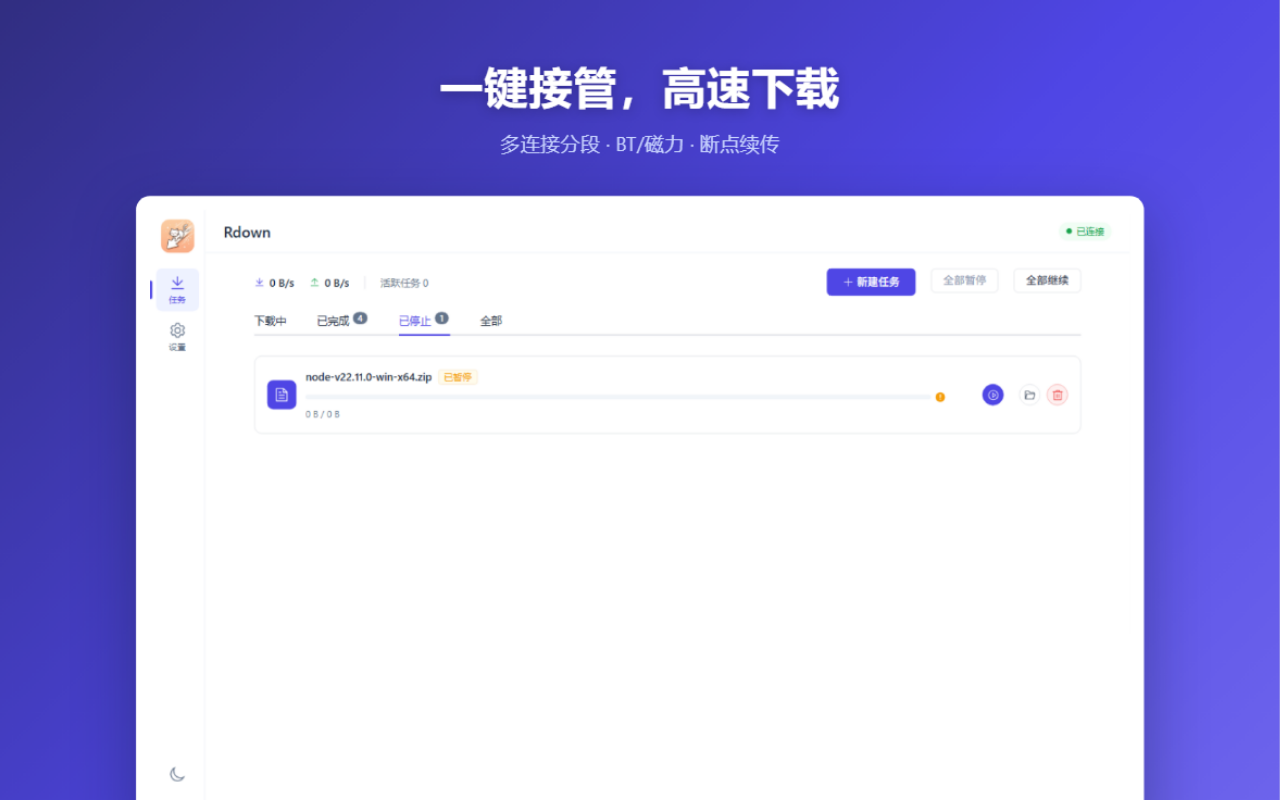
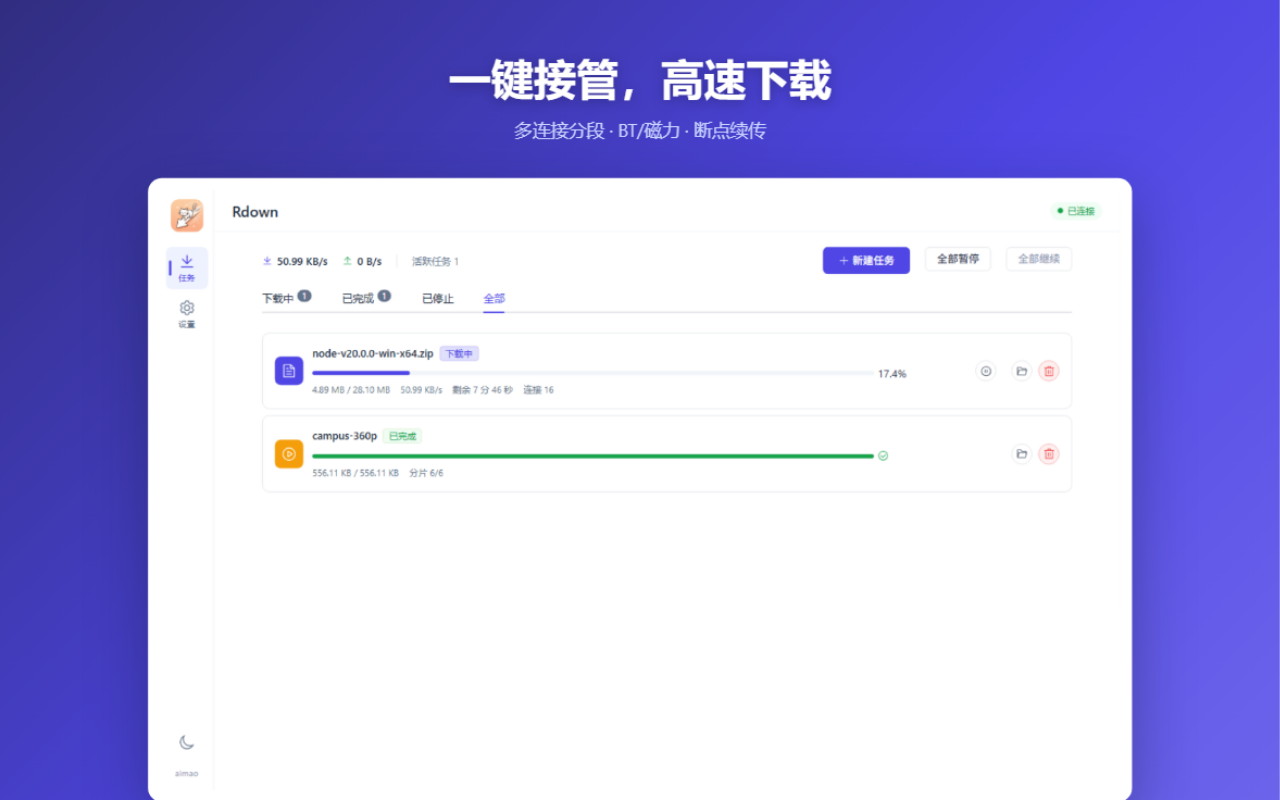
assets: refresh store screenshots for v0.0.1 UI (new shots + fixed dark-mode shot), rebuild extension-pack.zip v0.0.1, sync docs & listing captions

diff --git a/docs/store-assets/src-shots/compose-screenshot.html b/docs/store-assets/src-shots/compose-screenshot.html
@@ -1,0 +1,35 @@
+<!DOCTYPE html>
+<html>
+<head>
+<meta charset="UTF-8">
+<style>
+  * { margin: 0; padding: 0; box-sizing: border-box; }
+  body {
+    width: 1280px; height: 800px; overflow: hidden;
+    font-family: -apple-system, "Segoe UI", "PingFang SC", "Microsoft YaHei", sans-serif;
+    background: linear-gradient(135deg, #312e81 0%, #4f46e5 55%, #6d64ec 100%);
+    display: flex; flex-direction: column; align-items: center;
+  }
+  .headline { margin-top: 50px; color: #ffffff; font-size: 42px; font-weight: 700; letter-spacing: 0.5px; text-shadow: 0 2px 12px rgba(0,0,0,0.25); }
+  .subline { margin-top: 12px; color: #c7d2fe; font-size: 18px; }
+  .card { margin-top: 36px; background: #ffffff; border-radius: 14px; padding: 12px; box-shadow: 0 20px 60px rgba(15, 23, 42, 0.35); line-height: 0; }
+  .card img { width: 960px; display: block; border-radius: 8px; }
+  .footer { margin-top: auto; margin-bottom: 24px; display: flex; align-items: center; gap: 10px; color: #e0e7ff; font-size: 14px; }
+  .footer img { width: 24px; height: 24px; border-radius: 6px; }
+  .footer b { font-weight: 600; }
+  .footer span { opacity: 0.75; }
+</style>
+</head>
+<body>
+  <div class="headline" id="h1"></div>
+  <div class="subline" id="h2"></div>
+  <div class="card"><img id="shot" src="" alt=""></div>
+  <div class="footer"><img src="logo.png" alt=""><b>Rdown</b><span>· aimao.today</span></div>
+  <script>
+    const p = new URLSearchParams(location.search);
+    document.getElementById('h1').textContent = p.get('h1') || '';
+    document.getElementById('h2').textContent = p.get('h2') || '';
+    document.getElementById('shot').src = p.get('img');
+  </script>
+</body>
+</html>

diff --git a/docs/cws-readiness-report.md b/docs/cws-readiness-report.md
@@ -1,6 +1,6 @@
 # Rdown 扩展 — Chrome Web Store 全要素合规审查总报告
 
-审查日期：2026-10-23 · 范围：extension/ 全部源码 + _locales 9 语言 + 商店后台物料 + 代码安全红线
+审查日期：2026-10-24（复审，UI 视觉重构 + v0.0.1 版本定稿后重新制作素材） · 范围：extension/ 全部源码 + _locales 9 语言 + 商店后台物料 + 代码安全红线
 结论：**全部就绪，可提交**。
 
 ---
@@ -10,7 +10,7 @@
 | 项 | 结果 |
 |---|---|
 | 打包脚本 | `tools/pack-extension.mjs`（纯 Node 手写 ZIP，STORE 方法），`npm run pack:extension` |
-| 产物 | `extension-pack.zip`（27 个文件，894,665 B） |
+| 产物 | `extension-pack.zip`（27 个文件，895,708 B，version 0.0.1） |
 | ZIP 根目录 | `manifest.json` 为首个条目 ✓ |
 | 排除项 | gen-icons.js、store/、*.ts、*.map、node_modules、.git、.env 均未打入 ✓ |
 | JSON 校验 | manifest.json 与 9 个 messages.json 全部合法，无注释、无尾随逗号 ✓ |
@@ -45,10 +45,10 @@
 ### 商店后台素材（全部 24 位 RGB 无 Alpha，已实测）
 | 文件 | 尺寸 | 用途 |
 |---|---|---|
-| docs/store-assets/shot-01.png | 1280×800 (ct=2) | 截图 1：任务列表（亮色） |
-| docs/store-assets/shot-02.png | 1280×800 (ct=2) | 截图 2：新建任务·流媒体解析 |
-| docs/store-assets/shot-03.png | 1280×800 (ct=2) | 截图 3：扩展 popup |
-| docs/store-assets/shot-04.png | 1280×800 (ct=2) | 截图 4：设置页（暗色） |
+| docs/store-assets/shot-01.png | 1280×800 (ct=2) | 截图 1：任务列表（亮色）· "一键接管，高速下载" |
+| docs/store-assets/shot-02.png | 1280×800 (ct=2) | 截图 2：新建任务·流媒体解析 · "流媒体下载，一站搞定" |
+| docs/store-assets/shot-03.png | 1280×800 (ct=2) | 截图 3：设置页（亮色）· "精细到每一个细节" |
+| docs/store-assets/shot-04.png | 1280×800 (ct=2) | 截图 4：任务列表（暗色模式）· "暗色模式，昼夜随行" |
 | docs/store-assets/promo-tile-440x280.png | 440×280 (ct=2) | 小型宣传图（全球共用） |
 | docs/store-assets/marquee-1400x560.png | 1400×560 (ct=2) | 大型横幅图（选填，Featured 提名用） |
 
@@ -76,7 +76,7 @@
 
 ## 6. manifest 关键字段
 
-- manifest_version: 3 ✓，version: 3.0.0 ✓，default_locale: en ✓
+- manifest_version: 3 ✓，version: 0.0.1 ✓，default_locale: en ✓
 - name/short_name/description/actionTitle 全部 `__MSG_*__` ✓
 - homepage_url: https://github.com/aimaonews/Rdown ✓（本轮补齐）
 - minimum_chrome_version: 116（Service Worker WebSocket 需求）✓

diff --git a/docs/cws-dashboard-fill-in.md b/docs/cws-dashboard-fill-in.md
@@ -1,14 +1,14 @@
 # Rdown — Chrome Developer Dashboard 全字段复制粘贴单
 
 > 用途：在 Chrome Web Store 开发者后台逐项复制粘贴。字段名保留英文，粘贴文案为英文，说明为中文。
-> 依据：`extension/manifest.json`（v3.0.0，MV3）、`extension/PRIVACY.md`（2026-10-19 版）、`extension/store/listing.md`、`README.md`。
+> 依据：`extension/manifest.json`（v0.0.1，MV3）、`extension/PRIVACY.md`（2026-10-19 版）、`extension/store/listing.md`、`README.md`。
 > 仓库地址统一使用：https://github.com/aimaonews/Rdown
 
 ---
 
 ## 1. Package（ZIP 包）
 
-- **版本号**：`3.0.0`（首次上传；与 `extension/manifest.json` 的 `"version": "3.0.0"` 一致，后续更新必须递增）
+- **版本号**：`0.0.1`（首次上传；与 `extension/manifest.json` 的 `"version": "0.0.1"` 一致，后续更新必须递增）
 - **打包要求**：`manifest.json` 必须位于 ZIP 根目录（不要把 `extension/` 文件夹本身打包进去）
 
 ### 上传前核查项清单
@@ -79,12 +79,12 @@ No mature content
 
 ### Screenshots（截图）
 
-4 张 **1280×800** PNG/JPEG，存放于 `docs/store-assets/`（源图在 `docs/store-assets/src-shots/`）。截图标题建议已写在各语言的 `docs/store-listing/<locale>.md` 的 "Localized Graphic Assets Checklist" 一节：
+4 张 **1280×800** PNG/JPEG，存放于 `docs/store-assets/`（源图在 `docs/store-assets/src-shots/`，标题已烧录在图片内）。各语言的 `docs/store-listing/<locale>.md` 的 "SCREENSHOTS CAPTIONS" 注释块列有对应的说明：
 
-1. 扩展 popup —— 接管开关 + 本页媒体列表
-2. 选项页 —— 过滤规则与多服务器配置
-3. Rdown Web 管理界面 —— 任务列表（亮色）
-4. 新建任务对话框 —— 流媒体解析与清晰度选择
+1. 任务列表（亮色）—— "一键接管，高速下载"
+2. 新建任务对话框 —— 流媒体解析与清晰度选择
+3. 设置页 —— "精细到每一个细节"
+4. 任务列表（暗色模式）—— "暗色模式，昼夜随行"
 
 ### Small Promo Tile（小宣传图）
 

diff --git a/docs/store-listing/ja.md b/docs/store-listing/ja.md
@@ -26,9 +26,9 @@
 • Repository: https://github.com/aimaonews/Rdown
 • Issues: https://github.com/aimaonews/Rdown/issues
 
-<!-- SCREENSHOTS CAPTIONS（スクリーンショット上部タイトル案、ストアページには非掲載）
-1. ポップアップ：引き継ぎスイッチとこのページのメディア一覧
-2. オプション：フィルタールールと複数サーバールーティング
-3. Web 管理画面：タスク一覧とリアルタイム進捗
-4. 新規タスク：ストリーム解析と画質選択
+<!-- SCREENSHOTS CAPTIONS（タイトルは画像に焼き込まれています・簡体字中国語）
+1. タスク一覧（ライト）：ワンクリックで引き継ぎ・高速ダウンロード
+2. 新規タスク：ストリーム解析と画質選択
+3. 設定ページ：細部まで設定可能
+4. タスク一覧（ダークモード）
 -->

diff --git a/docs/store-listing/fr.md b/docs/store-listing/fr.md
@@ -26,9 +26,9 @@ Rdown est l'extension officielle du gestionnaire de téléchargements open sourc
 • Repository: https://github.com/aimaonews/Rdown
 • Issues: https://github.com/aimaonews/Rdown/issues
 
-<!-- SCREENSHOTS CAPTIONS (titres suggérés, hors page du store)
-1. Fenêtre popup : interrupteur de capture et médias de la page
-2. Options : règles de filtrage et routage multiserveur
-3. Tableau de bord web : liste des tâches avec progression en temps réel
-4. Nouvelle tâche : analyse des flux et choix de la qualité
+<!-- SCREENSHOTS CAPTIONS (les titres sont intégrés dans les images, en chinois simplifié)
+1. Liste des tâches (clair) : prise en charge en un clic, téléchargements rapides
+2. Nouvelle tâche : analyse des flux et choix de la qualité
+3. Paramètres : réglages fins
+4. Liste des tâches (mode sombre)
 -->

diff --git a/docs/store-listing/es.md b/docs/store-listing/es.md
@@ -26,9 +26,9 @@ Rdown es la extensión oficial del gestor de descargas open source Rdown. Envía
 • Repository: https://github.com/aimaonews/Rdown
 • Issues: https://github.com/aimaonews/Rdown/issues
 
-<!-- SCREENSHOTS CAPTIONS (títulos sugeridos, no para la página de la tienda)
-1. Ventana emergente: interruptor de captura y medios de esta página
-2. Opciones: reglas de filtrado y enrutado multiservidor
-3. Panel web: lista de tareas con progreso en tiempo real
-4. Nueva tarea: análisis de streams y selección de calidad
+<!-- SCREENSHOTS CAPTIONS (los títulos van incrustados en las imágenes, en chino simplificado)
+1. Lista de tareas (claro): toma de control con un clic, descargas rápidas
+2. Nueva tarea: análisis de streams y selección de calidad
+3. Ajustes: control al detalle
+4. Lista de tareas (modo oscuro)
 -->

diff --git a/docs/store-listing/pt_BR.md b/docs/store-listing/pt_BR.md
@@ -26,9 +26,9 @@ O Rdown é a extensão oficial do gerenciador de downloads open source de mesmo 
 • Repository: https://github.com/aimaonews/Rdown
 • Issues: https://github.com/aimaonews/Rdown/issues
 
-<!-- SCREENSHOTS CAPTIONS (títulos sugeridos, fora da página da loja)
-1. Pop-up: interruptor de captura e mídias desta página
-2. Opções: regras de filtro e roteamento multisservidor
-3. Painel web: lista de tarefas com progresso em tempo real
-4. Nova tarefa: análise de streams e seleção de qualidade
+<!-- SCREENSHOTS CAPTIONS (os títulos estão embutidos nas imagens, em chinês simplificado)
+1. Lista de tarefas (claro): assuma com um clique, downloads rápidos
+2. Nova tarefa: análise de streams e seleção de qualidade
+3. Configurações: controle detalhado
+4. Lista de tarefas (modo escuro)
 -->

diff --git a/docs/store-listing/de.md b/docs/store-listing/de.md
@@ -26,9 +26,9 @@ Rdown ist die offizielle Erweiterung des gleichnamigen Open-Source-Download-Mana
 • Repository: https://github.com/aimaonews/Rdown
 • Issues: https://github.com/aimaonews/Rdown/issues
 
-<!-- SCREENSHOTS CAPTIONS (Vorschläge für Titelzeilen, nicht für die Store-Seite)
-1. Popup: Übernahme-Schalter und gefundene Medien dieser Seite
-2. Optionen: Filterregeln und Multi-Server-Routing
-3. Web-Oberfläche: Aufgabenliste mit Echtzeit-Fortschritt
-4. Neue Aufgabe: Stream-Analyse und Qualitätsauswahl
+<!-- SCREENSHOTS CAPTIONS (Titel sind fest in den Bildern eingebrannt, auf Vereinfachtem Chinesisch)
+1. Aufgabenliste (hell): Übernahme mit einem Klick, schnelle Downloads
+2. Neue Aufgabe: Stream-Analyse und Qualitätsauswahl
+3. Einstellungen: fein einstellbar
+4. Aufgabenliste (Dunkelmodus)
 -->

diff --git a/docs/store-listing/en.md b/docs/store-listing/en.md
@@ -26,9 +26,9 @@ This extension is the official companion of Rdown, the open-source download mana
 • Repository: https://github.com/aimaonews/Rdown
 • Issues: https://github.com/aimaonews/Rdown/issues
 
-<!-- SCREENSHOTS CAPTIONS (suggested top titles, not for the store page)
-1. Popup: capture switch and media found on this page
-2. Options: filter rules and multi-server routing
-3. Web dashboard: task list with real-time progress
-4. New task: stream parsing and quality selection
+<!-- SCREENSHOTS CAPTIONS (titles are baked into the images, in Simplified Chinese)
+1. Task list (light): one-click takeover, high-speed downloads
+2. New task: stream parsing and quality selection
+3. Settings: fine-grained controls
+4. Task list (dark mode)
 -->

diff --git a/docs/store-listing/ko.md b/docs/store-listing/ko.md
@@ -26,9 +26,9 @@
 • Repository: https://github.com/aimaonews/Rdown
 • Issues: https://github.com/aimaonews/Rdown/issues
 
-<!-- SCREENSHOTS CAPTIONS (스크린샷 상단 제목 제안, 스토어 페이지 미게재)
-1. 팝업: 이관 스위치와 이 페이지의 미디어 목록
-2. 옵션: 필터 규칙과 다중 서버 라우팅
-3. 웹 대시보드: 작업 목록과 실시간 진행률
-4. 새 작업: 스트림 분석과 화질 선택
+<!-- SCREENSHOTS CAPTIONS (제목은 이미지에 굽혀 넣었으며 간체 중국어입니다)
+1. 작업 목록(라이트): 원클릭 이관, 고속 다운로드
+2. 새 작업: 스트림 분석과 화질 선택
+3. 설정 페이지: 세세한 조절
+4. 작업 목록(다크 모드)
 -->
